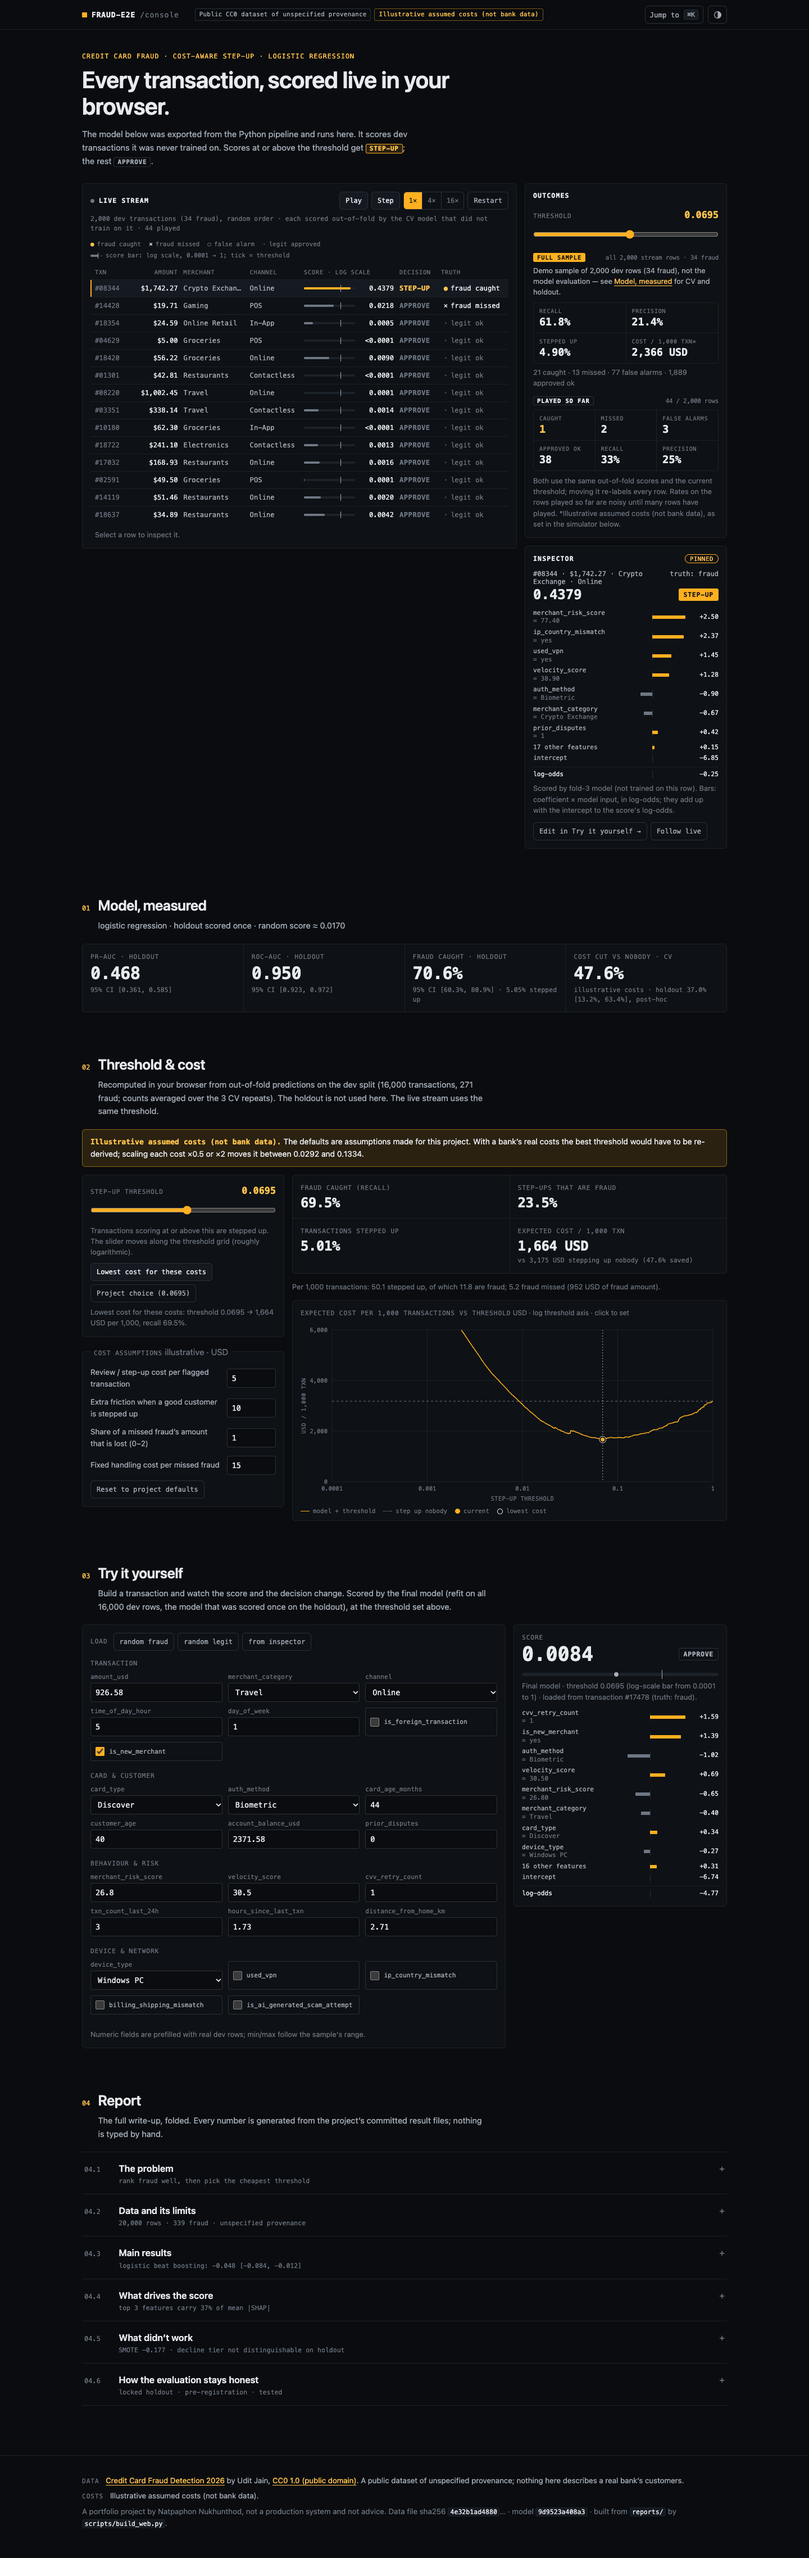
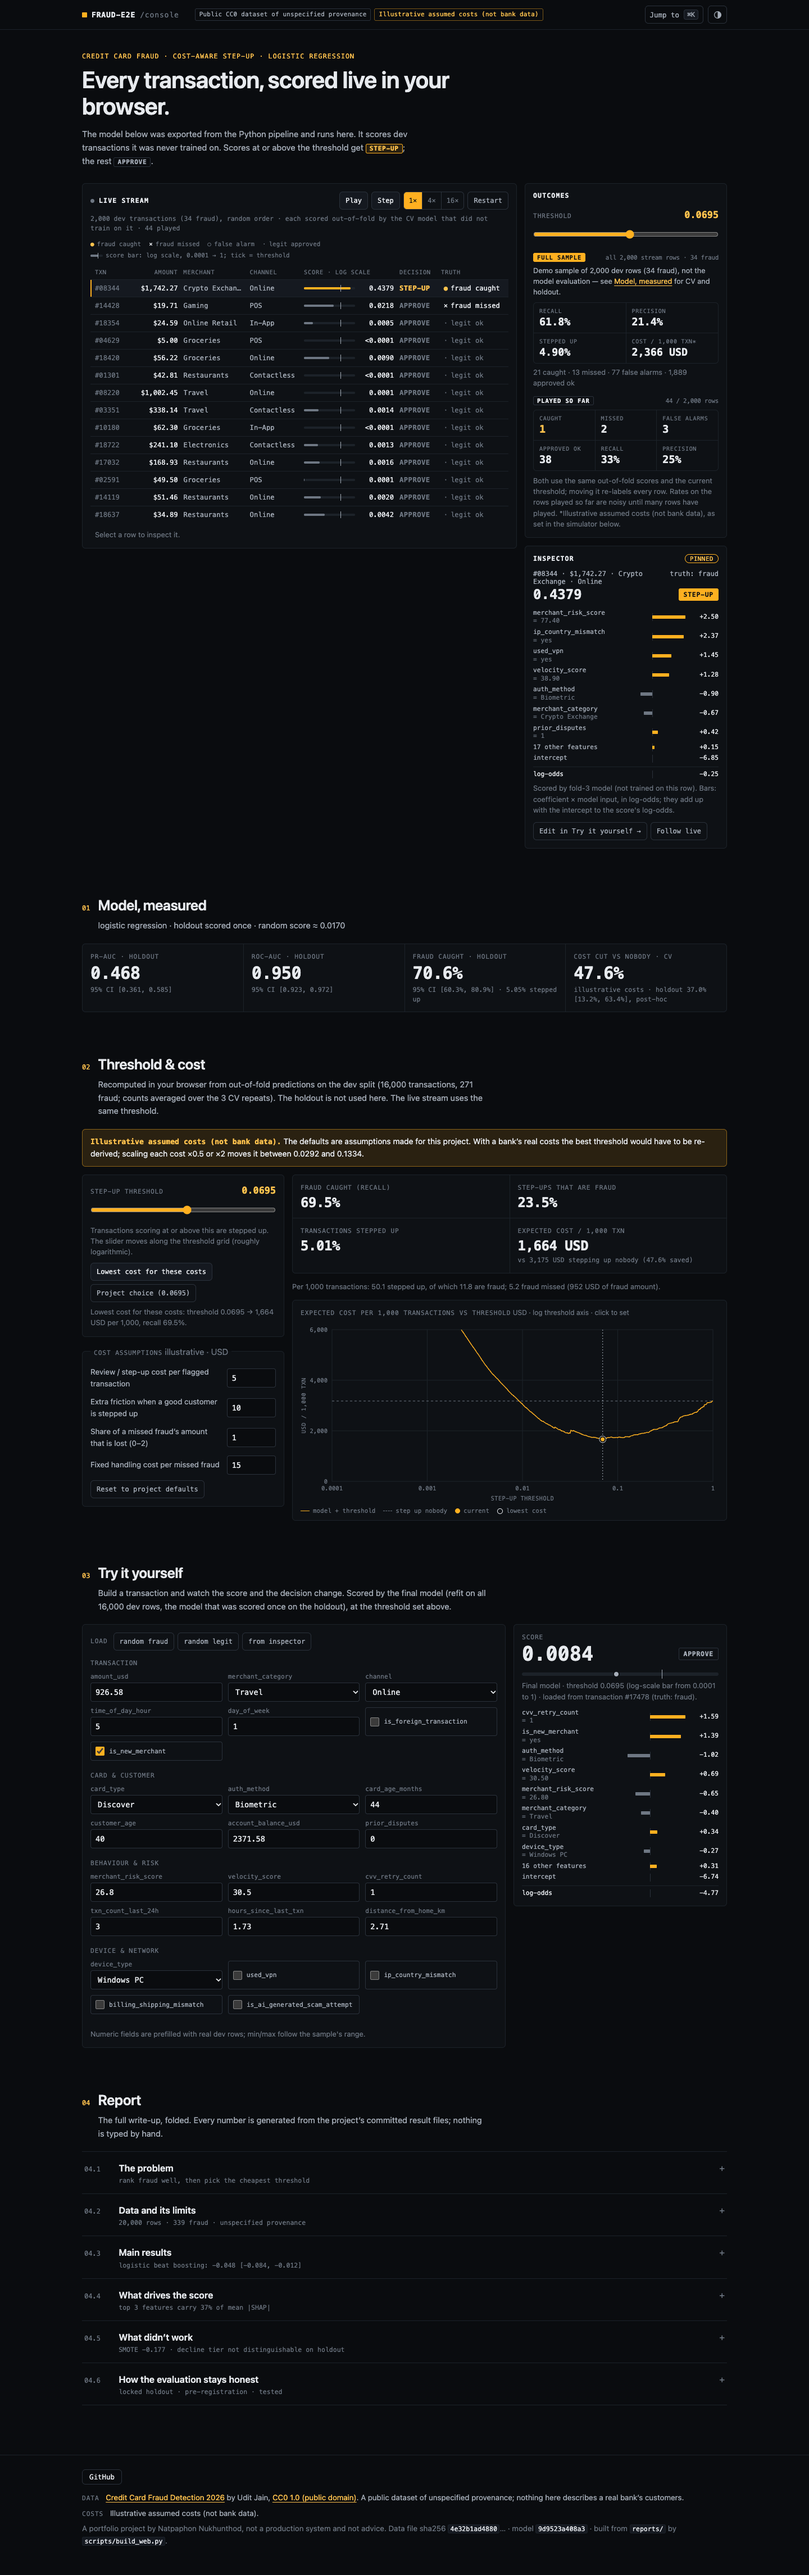
Publish the project page with GitHub Pages instead of Vercel
- .github/workflows/pages.yml: upload web/site as-is and deploy (push to main + manual run)
- CSP shipped as a <meta> tag generated from vercel.json (Pages cannot set headers)
- tests: every page/JS path is relative (site lives under /fraud-console/), no fetch()
- web-preview serves under /fraud-console/ and fails on any HTTP error or console error
- website link -> https://natpaphonnn.github.io/fraud-console/ (README, canonical URL)
- docs/deploy.md: GitHub Pages steps; Vercel kept as an alternative

diff --git a/web/site/index.html b/web/site/index.html
@@ -3,6 +3,7 @@
 <head>
 <meta charset="utf-8">
 <meta name="viewport" content="width=device-width, initial-scale=1">
+<meta http-equiv="Content-Security-Policy" content="default-src 'self'; script-src 'self'; style-src 'self' 'unsafe-inline'; img-src 'self' data:; connect-src 'self'; object-src 'none'; base-uri 'none'; form-action 'none'">
 <title>Fraud Console · Fraud-E2E</title>
 <meta name="description" content="A fraud-scoring console in the browser: a logistic model exported from the Python pipeline scores transactions live, with a cost-based step-up threshold, per-feature contributions and an uncertainty interval on every number.">
 <meta name="author" content="Natpaphon Nukhunthod">
@@ -11,7 +12,8 @@
 <meta property="og:type" content="website">
 <meta property="og:title" content="Fraud Console · cost-aware credit card fraud detection">
 <meta property="og:description" content="Live in-browser scoring, a threshold simulator with illustrative costs, and a pre-registered evaluation on a public CC0 dataset.">
-<!-- canonical URL: set `website` in configs/links.yaml -->
+<link rel="canonical" href="https://natpaphonnn.github.io/fraud-console/">
+<meta property="og:url" content="https://natpaphonnn.github.io/fraud-console/">
 <link rel="icon" href="favicon.svg" type="image/svg+xml">
 <link rel="stylesheet" href="style.css">
 <script src="theme.js"></script>

diff --git a/scripts/web_preview.py b/scripts/web_preview.py
@@ -1,8 +1,9 @@
 """Screenshot the built website and smoke-test it in a real browser.
 
-Serves web/site/ on localhost and drives the installed Google Chrome with Playwright.
-Fails on any console error, horizontal overflow, or a feature that does not react:
-live stream (autoplay, reduced-motion pause, step, inspector), shared threshold,
+Serves web/site/ on localhost under /fraud-console/ (as on GitHub Pages) and drives
+the installed Google Chrome with Playwright. Fails on any console error, any HTTP
+error (e.g. a 404 from a root-absolute path), horizontal overflow, or a feature that
+does not react: live stream (autoplay, reduced-motion pause, step, inspector), shared threshold,
 cost simulator, try-it-yourself, command palette, light/dark theme.
 
     uv run --with playwright python scripts/web_preview.py      # (make web-preview)
@@ -16,6 +17,7 @@ import functools
 import http.server
 import socketserver
 import sys
+import tempfile
 import threading
 from pathlib import Path
 
@@ -30,15 +32,21 @@ DESKTOP = {"width": 1440, "height": 900}
 MOBILE = {"width": 390, "height": 844}
 
 
-def serve() -> tuple[socketserver.TCPServer, str]:
+SUBPATH = "fraud-console"  # GitHub Pages serves the site at https://<user>.github.io/fraud-console/
+
+
+def serve(root: Path) -> tuple[socketserver.TCPServer, str]:
+    """Serve web/site/ under /fraud-console/ (like GitHub Pages); anything else 404s."""
+    (root / SUBPATH).symlink_to(SITE, target_is_directory=True)
+
     class Quiet(http.server.SimpleHTTPRequestHandler):
         def log_message(self, *args):
             pass
 
-    handler = functools.partial(Quiet, directory=str(SITE))
+    handler = functools.partial(Quiet, directory=str(root))
     httpd = socketserver.TCPServer(("127.0.0.1", 0), handler)
     threading.Thread(target=httpd.serve_forever, daemon=True).start()
-    return httpd, f"http://127.0.0.1:{httpd.server_address[1]}/"
+    return httpd, f"http://127.0.0.1:{httpd.server_address[1]}/{SUBPATH}/"
 
 
 class Checks:
@@ -56,6 +64,8 @@ def open_page(browser, url, check, name, **ctx) -> tuple[Page, list[str]]:
     errors: list[str] = []
     page.on("console", lambda m: m.type == "error" and errors.append(m.text))
     page.on("pageerror", lambda exc: errors.append(str(exc)))
+    page.on("response", lambda r: r.status >= 400 and errors.append(f"HTTP {r.status} {r.url}"))
+    page.on("requestfailed", lambda r: errors.append(f"request failed {r.url}"))
     page.goto(url, wait_until="networkidle")
     page.wait_for_selector("#cost-chart svg")
     overflow = page.evaluate(
@@ -81,7 +91,9 @@ def main() -> int:
     OUT.mkdir(parents=True, exist_ok=True)
     ctx = build_context()
     check = Checks()
-    httpd, url = serve()
+    tmp = tempfile.TemporaryDirectory()
+    httpd, url = serve(Path(tmp.name))
+    print("serving under", url)
     try:
         with sync_playwright() as pw:
             browser = pw.chromium.launch(channel="chrome", headless=True)
@@ -219,6 +231,7 @@ def main() -> int:
             browser.close()
     finally:
         httpd.shutdown()
+        tmp.cleanup()
     for p in sorted(OUT.glob("*.png")):
         print("wrote", p.relative_to(REPO))
     if check.failures:

diff --git a/tests/test_web.py b/tests/test_web.py
@@ -37,9 +37,12 @@ def test_required_labels_and_credit(page):
 
 def test_self_contained_no_third_party_assets(page):
     # scripts, stylesheets and icons are local files; no CDN, fonts or trackers
+    # (rel="canonical" only names the page's own public URL; it loads nothing)
     for tag, attr in (("script", "src"), ("link", "href")):
-        for url in re.findall(rf"<{tag}\b[^>]*\b{attr}=\"([^\"]+)\"", page):
-            assert not re.match(r"[a-z]+:|//", url), url
+        for m in re.finditer(rf"<{tag}\b[^>]*\b{attr}=\"([^\"]+)\"[^>]*>", page):
+            if 'rel="canonical"' in m.group(0):
+                continue
+            assert not re.match(r"[a-z]+:|//", m.group(1)), m.group(1)
     allowed = {DATASET_URL, "https://creativecommons.org/publicdomain/zero/1.0/"}
     allowed |= {u for u in load_links().values() if u}
     for url in re.findall(r"href=\"(https?://[^\"]+)\"", page):
@@ -76,3 +79,20 @@ def test_links_must_be_https(tmp_path):
 def test_vercel_config_is_valid_json():
     cfg = json.loads((SITE / "vercel.json").read_text())
     assert any(h["key"] == "Content-Security-Policy" for h in cfg["headers"][0]["headers"])
+
+
+def test_local_paths_are_relative(page):
+    # the site is served under a sub-path (GitHub Pages: /fraud-console/), so no root-absolute URLs
+    refs = re.findall(r'(?:href|src)="([^"]+)"', page)
+    for url in refs:
+        assert not url.startswith("/"), url
+    for name in ("app.js", "model.js", "sim.js"):
+        js = build_site()[name].decode()
+        for spec in re.findall(r'from\s+"([^"]+)"', js):
+            assert spec.startswith("./"), (name, spec)
+        assert "fetch(" not in js
+
+
+def test_csp_meta_matches_vercel_policy(page):
+    meta = re.search(r'<meta http-equiv="Content-Security-Policy" content="([^"]+)">', page)
+    assert meta and "script-src 'self'" in meta.group(1) and "frame-ancestors" not in meta.group(1)

diff --git a/src/fraud_e2e/web.py b/src/fraud_e2e/web.py
@@ -213,6 +213,27 @@ def stream_data() -> dict:
     }
 
 
+def csp_meta() -> str:
+    """The CSP from vercel.json as a <meta> tag (GitHub Pages cannot set response headers).
+
+    `frame-ancestors` is dropped: browsers ignore it in a meta tag.
+    """
+    cfg = json.loads((SRC / "vercel.json").read_text())
+    policy = next(
+        h["value"]
+        for rule in cfg["headers"]
+        for h in rule["headers"]
+        if h["key"] == "Content-Security-Policy"
+    )
+    kept = [
+        d.strip()
+        for d in policy.split(";")
+        if d.strip() and not d.strip().startswith("frame-ancestors")
+    ]
+    value = html.escape("; ".join(kept), quote=False).replace('"', "&quot;")
+    return f'<meta http-equiv="Content-Security-Policy" content="{value}">'
+
+
 def page_data() -> dict:
     return {"sim": sim_data(), "model": model_data(), "stream": stream_data()}
 
@@ -231,6 +252,7 @@ def build_site() -> dict[str, bytes]:
     ctx |= {
         "links_html": links_html(links),
         "canonical_html": canonical_html(links),
+        "csp_meta": csp_meta(),
         "shap_html": shap_html(),
         "forest_html": forest_html(forest_rows()),
         "data_json": _data_json(page_data()),

diff --git a/docs/deploy.md b/docs/deploy.md
@@ -1,64 +1,57 @@
-# Deploying the project page to Vercel
+# Publishing the project page
 
-The page is a static site: `web/site/` (one `index.html`, CSS, two small JS modules, an icon and
-`vercel.json`). There is no backend, no build step on Vercel, and no third-party scripts or fonts.
-`web/site/` is **generated**. Edit `web/src/` (or the templates/reports it reads) and run `make docs`.
+The page is a static site: `web/site/` (one `index.html`, CSS, small JS modules, an icon). There is no
+backend and no build step on the host, and no third-party scripts or fonts. `web/site/` is
+**generated** and committed. Edit `web/src/` (or the templates/reports it reads) and run `make docs`.
 
-> Deployment is done by Nat. Nothing in this repository deploys or pushes automatically.
+- Live URL: <https://natpaphonnn.github.io/fraud-console/> (GitHub Pages)
+- Repository: <https://github.com/Natpaphonnn/fraud-console>
 
-## 1. Before every deploy (local)
+## 1. Before every publish (local)
 
 ```bash
-make check         # lint + tests; fails if web/site/ is stale or the simulator disagrees with reports/
-make web-serve     # optional: open http://localhost:8000 and click around (Ctrl+C to stop)
-make web-preview   # optional: re-take reports/web_preview/*.png and re-run the browser smoke test
+make check         # lint + tests; fails if web/site/ is stale, paths are not relative, or JS ≠ Python
+make web-preview   # browser smoke test served under /fraud-console/ (no 404s, no console errors) + screenshots
 git status         # commit web/site/ together with any change to web/src/, reports/ or configs/links.yaml
 ```
 
-## 2. Option A — Vercel dashboard + GitHub (recommended)
+`make web-serve` previews at <http://localhost:8000> (site root); `make web-preview` is the one that
+reproduces the GitHub Pages sub-path.
 
-1. The repository is on GitHub: <https://github.com/Natpaphonnn/fraud-console>.
-2. On <https://vercel.com/new>, choose **Import Git Repository** and pick `Natpaphonnn/fraud-console`
-   (first time: allow the Vercel GitHub app to see this repository).
-3. Configure the project:
-   - **Root Directory:** `web/site` (click *Edit* next to Root Directory)
-   - **Framework Preset:** `Other`
-   - **Build Command / Output Directory / Install Command:** leave empty (no overrides)
-4. Click **Deploy**. Vercel serves the files as they are; `vercel.json` adds security headers
-   (Content-Security-Policy, nosniff, referrer and permissions policies) and clean URLs.
+## 2. GitHub Pages (current)
 
-After this, every push to the default branch redeploys automatically, and other branches get
-preview URLs. The site only changes when `web/site/` changes, so always commit it after `make docs`.
+`.github/workflows/pages.yml` uploads `web/site/` as-is with `actions/upload-pages-artifact` and publishes
+it with `actions/deploy-pages`. It runs on every push to `main` and can be started by hand.
 
-## 3. Option B — Vercel CLI (no GitHub needed)
+**One-time setup (repository owner):**
 
-```bash
-cd web/site
-npx vercel@latest login      # opens the browser; credentials stay in ~/.vercel, never in the repo
-npx vercel@latest            # first run: answer the prompts (scope, new project name); gives a preview URL
-npx vercel@latest --prod     # promote to the production URL
-```
+1. Open <https://github.com/Natpaphonnn/fraud-console/settings/pages>.
+2. Under **Build and deployment → Source**, choose **GitHub Actions** (not "Deploy from a branch").
+3. Open the **Actions** tab → **Deploy project page to GitHub Pages** → **Run workflow** (branch `main`).
+   A run triggered before step 2 fails with a Pages "not found / not enabled" error; just run it again.
+4. When the run is green, the URL is shown on the run page and in **Settings → Pages**.
 
-The CLI writes `web/site/.vercel/` (project IDs). It is git-ignored and ignored by the
-freshness check. Do not commit it.
+**Afterwards:** every push to `main` redeploys. To roll back, revert the commit and push, or open an
+earlier successful run of the workflow and choose **Re-run all jobs**. That deploys that commit's
+`web/site/`.
 
-## 4. After the first deploy
+**Differences from a header-capable host:** GitHub Pages cannot set response headers, so the
+Content-Security-Policy is shipped as a `<meta>` tag generated from `web/src/vercel.json`.
+`frame-ancestors` cannot be set that way, so the page can be framed. `vercel.json` is published as an
+inert file and ignored by Pages.
 
-1. Put the production URL in `configs/links.yaml` → `website: "https://<project>.vercel.app"`,
-   plus the GitHub / Kaggle / Medium URLs when they exist (empty values are simply not shown).
-2. Run `make docs`. This updates the README links and adds the canonical URL to the page.
-3. Run `make check`, commit, and redeploy (push for Option A, `npx vercel@latest --prod` for Option B).
+**Quick checks on the live site:** loads on a phone without horizontal scrolling. The stream plays,
+or waits for Play with reduced motion on. The cost label and the dataset credit (Udit Jain, CC0) are
+visible, and the browser console has no errors.
 
-## 5. Quick checks on the live site
+## 3. Alternative: Vercel
 
-- The page loads on a phone without horizontal scrolling. The simulator starts at the project
-  threshold and changes when you move the slider or edit a cost.
-- The cost label *"Illustrative assumed costs (not bank data)"* and the dataset credit
-  (*Credit Card Fraud Detection 2026*, Udit Jain, CC0) are visible.
-- The browser console has no errors (a CSP violation would show up there).
-- `curl -sI https://<project>.vercel.app | grep -i content-security-policy` prints the policy.
+Only if a header-capable host is wanted later (real CSP header incl. `frame-ancestors`):
 
-## Rolling back
+1. <https://vercel.com/new> → **Import Git Repository** → `Natpaphonnn/fraud-console`.
+2. **Root Directory:** `web/site` · **Framework Preset:** Other · leave Build/Output/Install empty.
+3. **Deploy**. `web/site/vercel.json` adds the security headers and clean URLs.
+4. Put the new URL in `configs/links.yaml` (`website`), run `make docs`, `make check`, commit and push.
 
-In the Vercel dashboard, open **Deployments**, pick an earlier deployment, then choose **⋯ → Promote to
-Production**.
+The Vercel CLI (`cd web/site && npx vercel@latest`, then `--prod`) also works. It writes
+`web/site/.vercel/`, which is git-ignored and ignored by the freshness check.

diff --git a/README.md b/README.md
@@ -2,7 +2,7 @@
 
 An end-to-end data-science case study on a small, highly imbalanced fraud dataset: data checks, EDA, pre-registered model comparison, expected-cost thresholds, a one-time holdout check and explanations — with an uncertainty interval on every number.
 
-**Links:** Project page (with threshold simulator): _coming soon_ · Kaggle notebooks: _coming soon_ · Medium article: _coming soon_
+**Links:** Project page (with threshold simulator): [Project page](https://natpaphonnn.github.io/fraud-console/) · Kaggle notebooks: _coming soon_ · Medium article: _coming soon_
 
 > **Status:** data-science work complete (notebooks 00–06, model card) and a static "fraud console" project page (`web/site/`): the logistic model runs in the browser on a live stream of dev transactions, with per-feature contributions, a build-your-own transaction form and a cost/threshold simulator. Engineering (API, Docker, MLflow, CI) and monitoring are deferred.
 
